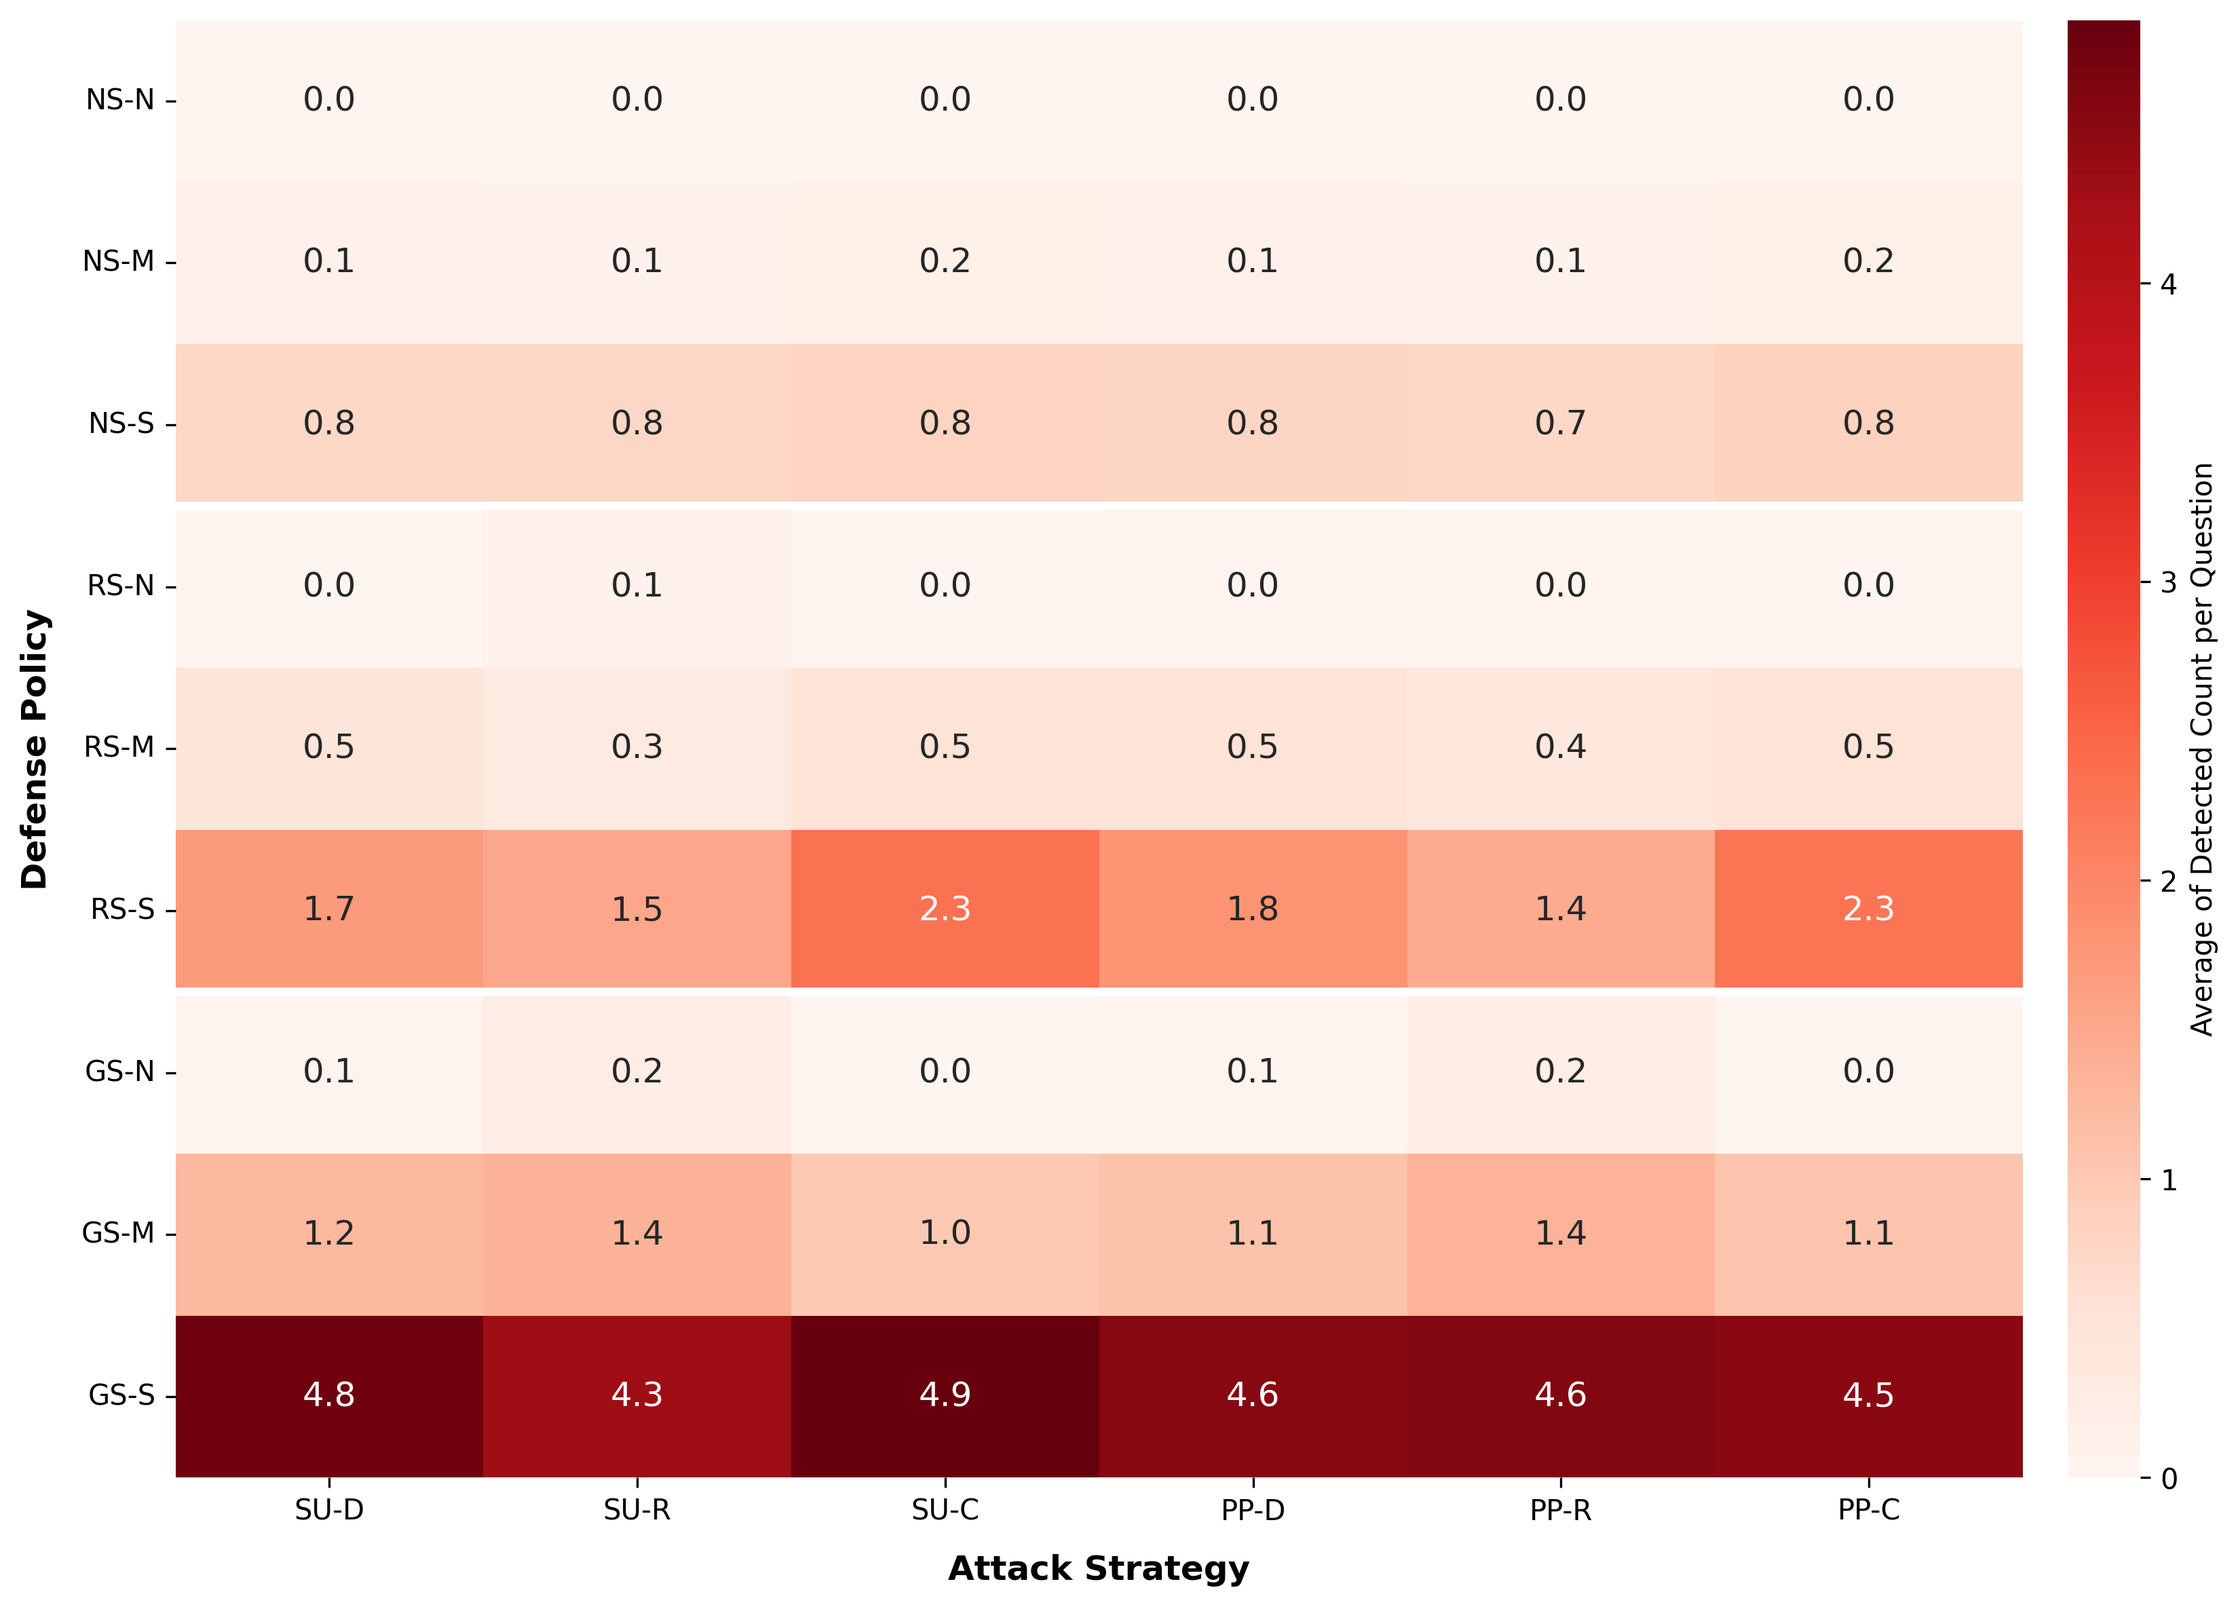
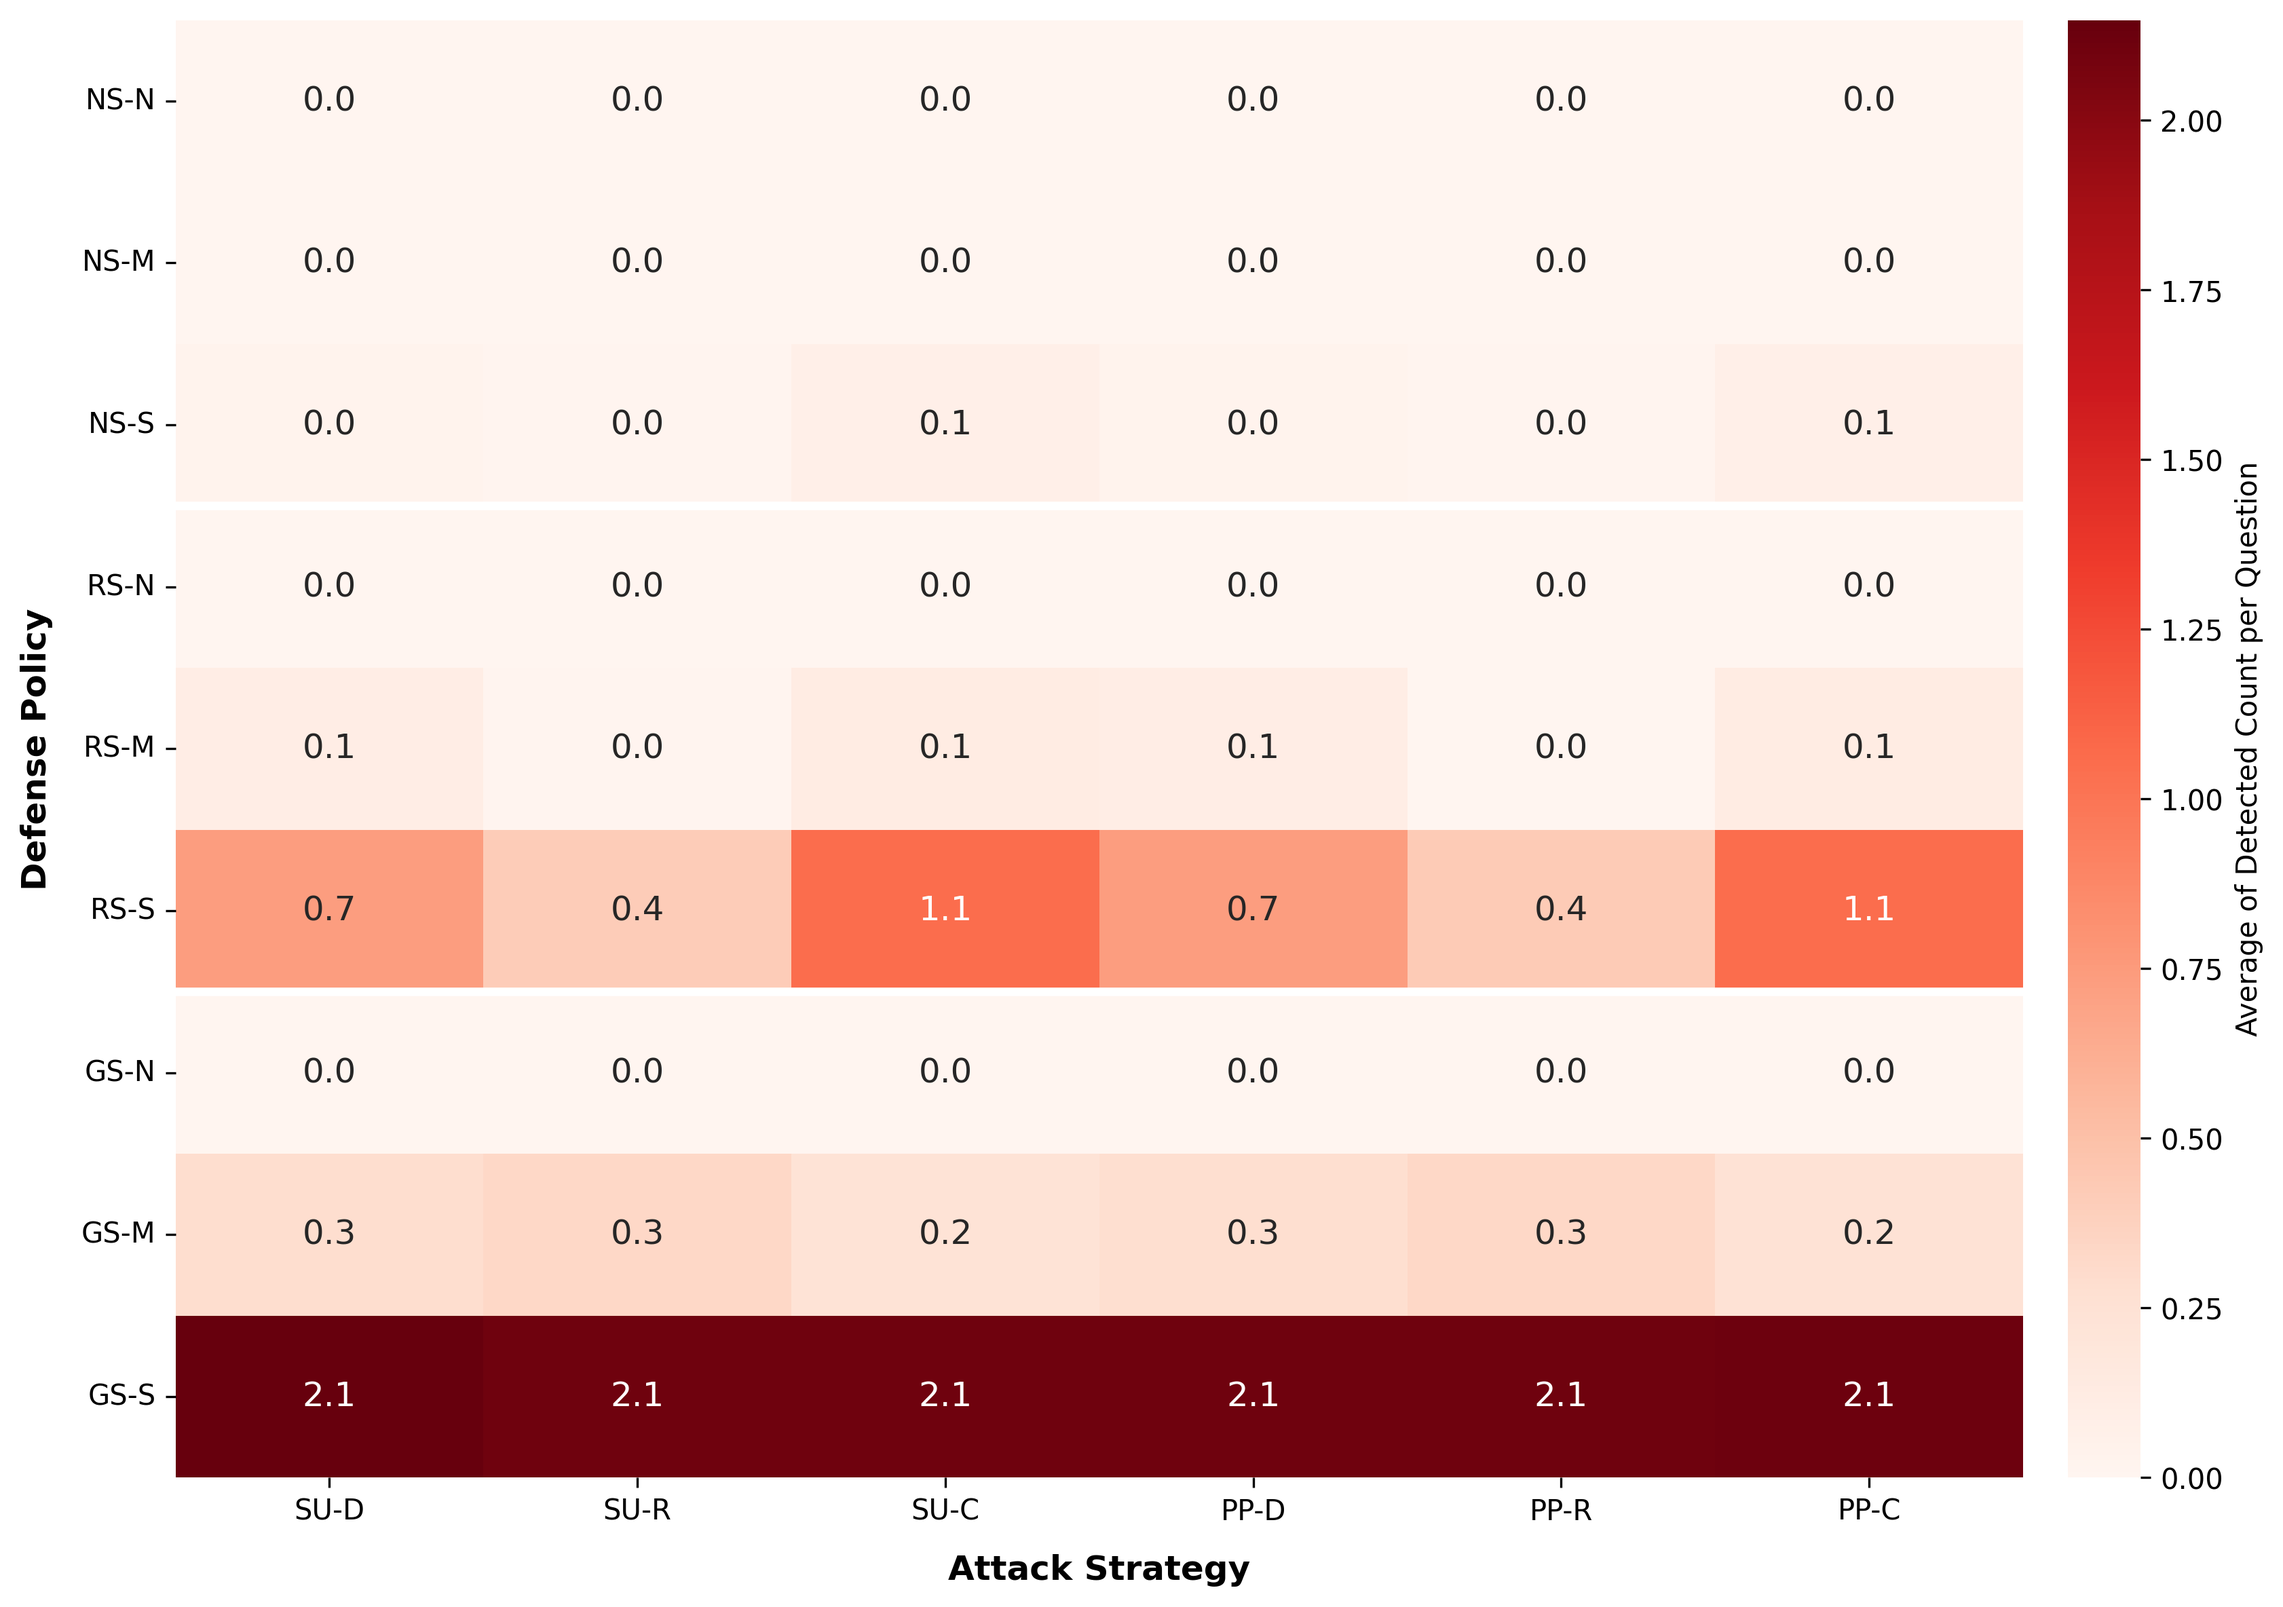
fix

diff --git a/utils/meta.py b/utils/meta.py
@@ -4,7 +4,7 @@ class MetaFunction:
 
     @staticmethod
     def findModelProvider(modelName: str):
-        # ['openAI', 'meta', 'tongyi', 'zhipu', 'deepseek']
+        # ['openAI', 'meta', 'tongyi', 'zhipu', 'deepseek', 'siliconflow', 'openrouter']
         # if "GPT" in modelName:
         if modelName.startswith('GPT'):
             return 'openAI'
@@ -20,5 +20,11 @@ class MetaFunction:
         # if "Deepseek" in modelName:
         if modelName.startswith('Deepseek'):
             return 'deepseek'
+        if modelName.startswith('siliconflow'):
+            return 'siliconflow'
+        if modelName.startswith('openrouter'):
+            return 'openrouter'
+        if modelName.startswith('awz'):
+            return 'awz'
         else:
             raise ValueError(f"Invalid model name: {modelName}")

diff --git a/utils/parameters.py b/utils/parameters.py
@@ -53,10 +53,17 @@ class Parameters(MetaFunction):
             return "ForBMs"
         elif modelName in self.model.ChiFMsList:
             return "ChiFMs"
+        elif modelName in self.model.ForFMsList:
+            return "ForFMs"
+        else:
+            raise ValueError(f"Invalid model name: {modelName}")
 
 
     def findModelCountry(self, modelName: str):
         ModelLevel = self.findModelLevel(modelName)
+        # print(f"modelName: {modelName}")
+        # print(f"ModelLevel: {ModelLevel}")
+
         if "Chi" in ModelLevel:
             return 'Chi'
         elif "For" in ModelLevel:

diff --git a/drawGraph2.py b/drawGraph2.py
@@ -64,8 +64,8 @@ def drawGraph9(colorbar_pad=0.02, yticklabel_offset=10, xticklabel_offset=10, an
     xticklabel_offset: 横坐标标签名称与坐标轴的距离（单位为points）
     annot_fontsize: 热力图数字字体大小
     """
-    P.numQuestions = 100
-    P.N = 5
+    P.numQuestions = 10000
+    P.N = 10
     banbar_values = [0, 0.5, 0.8]
     
     # 获取数据
